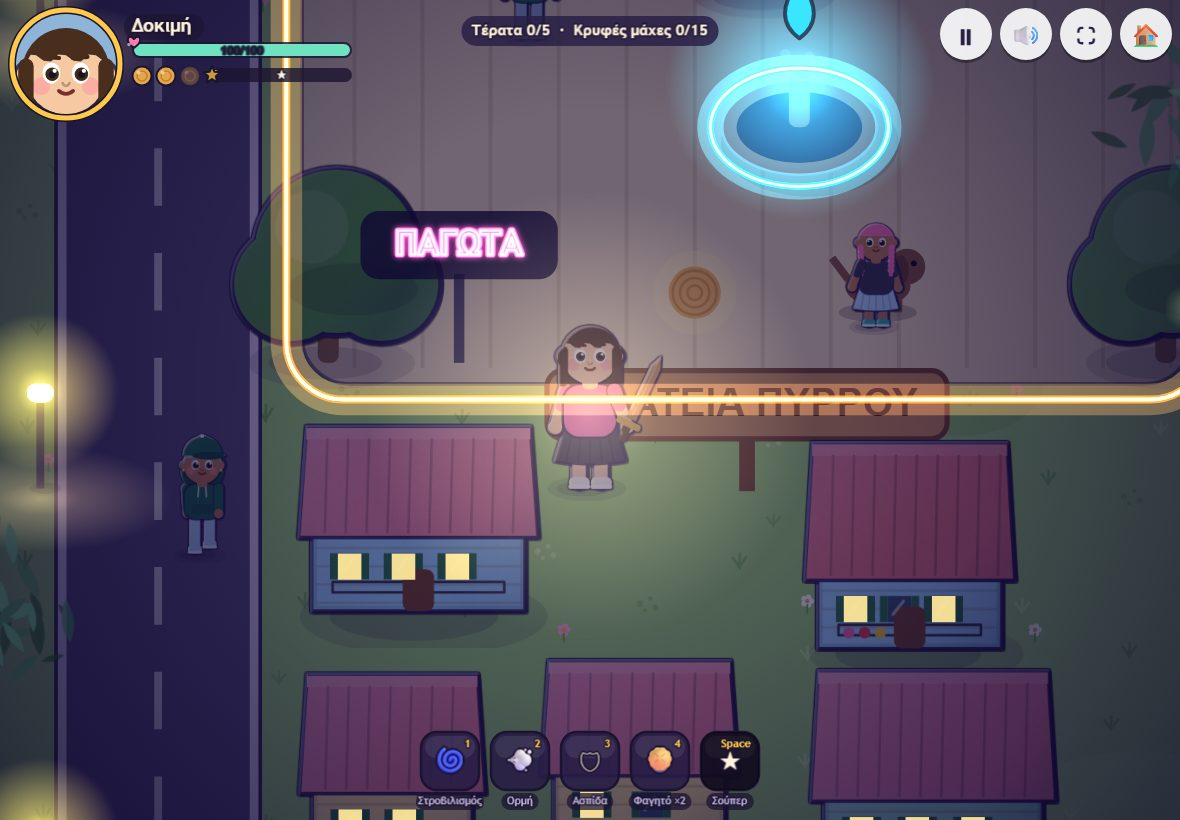
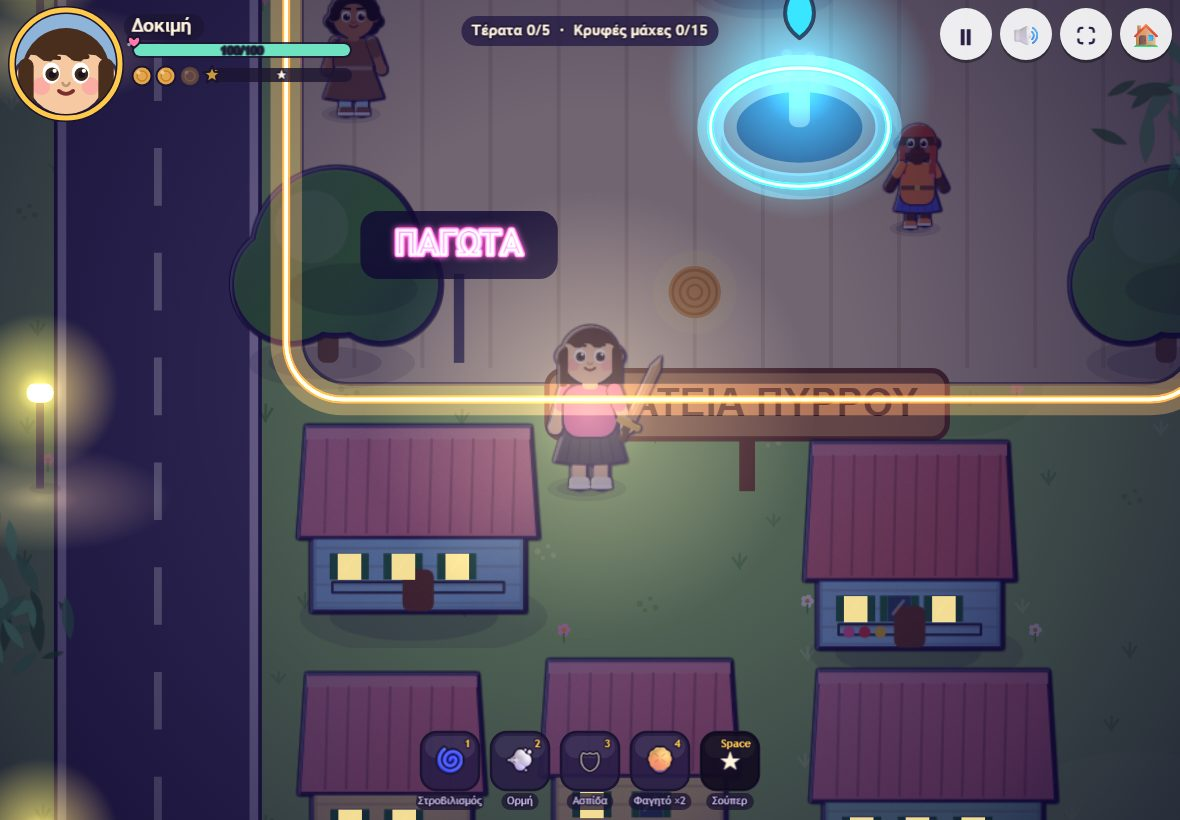
docs(gfx): CHANGELOG after the tablet fixes, screens regenerated
Claude-Session: https://claude.ai/code/session_012EzZNSgUcGYtZjSftyHTTV

diff --git a/CHANGELOG.md b/CHANGELOG.md
@@ -10,8 +10,10 @@
     overlay, rim light, varied ink outline; houses also get paper grain, glass highlights and their soft cast shadow)
     and copied every frame. People: frames per look (`lookKey`), facing, walk step, breath, attack step, expression and
     pose; bob, squash, fall, blink, aura and shadow stay live. The player's old look is dropped when the wardrobe
-    changes it; the player's frame set (56) is pre-baked in spare frames. At most one bake per frame, live vector
-    fallback meanwhile. Houses and tree crowns are repainted per mood; people keep the day finish under the hour's tint.
+    changes it; the player's frame set (112: the city's «happy» and the fight's «grit» face) is pre-baked in spare
+    frames. At most one bake per frame, and only every third frame while frames run over 20 ms; meanwhile the
+    nearest painted frame, else the live vector drawing. Sprites are baked at up to 2 px per world unit (at 3 a
+    tablet held ~70 MB of sprites after a minute; now ~37 MB). Houses and tree crowns are repainted per mood; people keep the day finish under the hour's tint.
   - Soft cast shadows along the key light (`castShadow`), sparkle sprites with additive glow (`sparkSprite`), a
     foreground leaf layer at 1.7x the camera (`foreLayer`, explore only), a night vignette carried by the hour's tint
     fill (`vignetteFill`, only while frames stay under ~17.5 ms on average).
